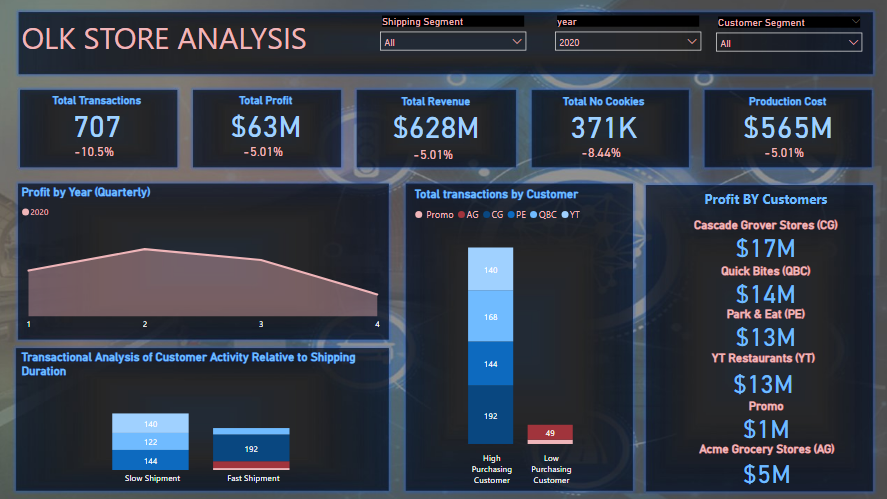
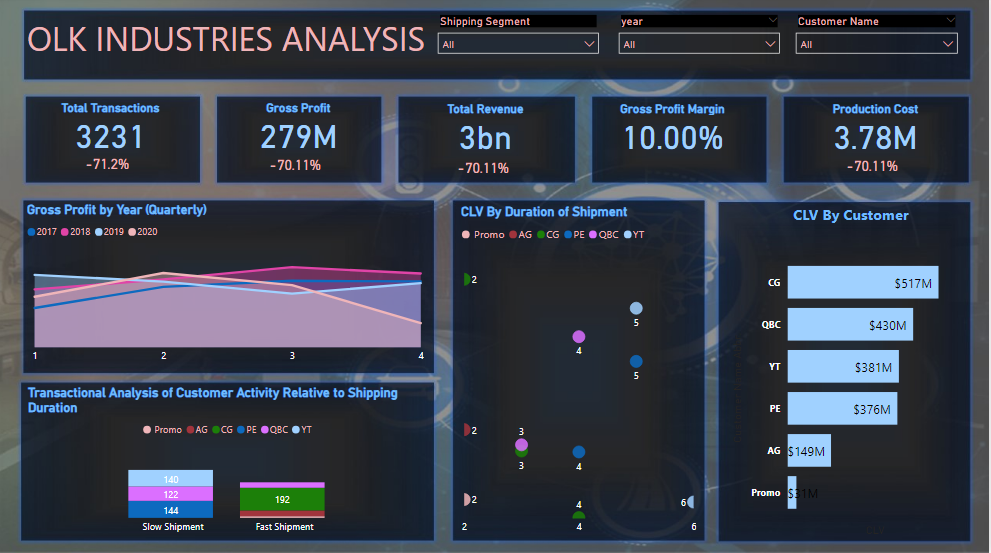
last commit

diff --git a/generic.html b/generic.html
@@ -40,45 +40,67 @@
 						<!-- Post -->
 							<section class="post">
 								<header class="major">
-									<h1>Descriptive Analysis on OLK STORE Using Power BI</h1>
+									<h1>Sales Analysis on OLK Cookies Industries LTD. </h1>
 									<p> Executive Summary: Descriptive Analysis on OLK STORE </p>
 								</header>
-								<div class="image main"><img src="images/olkdashboard.PNG" alt="" /></div>
-								<p>
+								<div class="image main"><img src="images/olkdashboard.PNG" alt="" />
+								</div>
+							<p>
 								<strong>
 									Introduction:
 								</strong>
-								OLK Store, a prominent wholesale supplier specializing in cookies, commissioned a comprehensive
+								OLK Cookies Industries LTD, a company that produces cookies for human consumption, commissioned a comprehensive
 								 analysis to elucidate critical aspects of its business operations. The focus of this analysis
-								  was to delineate key performance indicators (KPIs) that encompassed total transactions, total profit,
-								   total revenue, total units of cookies sold, and production costs. The project additionally delved into
+								  was to delineate key performance indicators (KPIs) that encompassed total transactions, Gross profit,
+								   total revenue, gross profit margin, and production costs. The project additionally delved into
 								    customer segmentation based on the quantity of cookies purchased, with a keen examination of the 
 									associated shipping durations.
 
 								Executed as part of an intern project, this analysis undertook meticulous data cleaning and modeling 
 								procedures employing advanced tools such as Power Query and Power BI. The utilization of these sophisticated
-								 analytical tools ensured a rigorous and insightful examination of OLK Store's operational dynamics, allowing 
+								 analytical tools ensured a rigorous and insightful examination of OLK Industries operational dynamics, allowing 
 								 for a nuanced understanding of various facets crucial to strategic decision-making and business optimization.
 								  The outcomes of this project contribute valuable insights for refining business strategies and enhancing 
-								  overall performance within the wholesale cookies supply domain.
+								  overall performance within the sales of cookies.
 								
 								
 								
 								
 								
 								
-							   <p>
+							</p>
+							
 								<strong>	
 									Data Preparation:
 								</strong>
 								
 								<img class="image column" src="images/dataset.png"  alt="" />
+								<img class="image column" src="images/olkdirtydata.PNG"  alt="" />
 								
 								
 									The raw data, spanning four years and organized into separate Excel sheets, was imported into Power Query using append 
 									and merge. 
 									The data underwent cleaning to address null values and unwanted figures. Afterward, it was loaded into Power BI
 									 for further analysis.
+									 
+									<p>
+									
+										<strong>
+											Key Findings:
+										</strong>
+											The dashboard revealed several primary key insights for overall year:
+										<div>
+											<img class="image column" src="images/olkkpi.PNG"  alt="" />
+										</div>
+										<ul>	
+											<li>Total transactions: 3231</li>	
+											<li>Total gross profit: $279 million</li>
+											<li>Total revenue: $3 billion</li>
+											<li>Gross profit margin 10.00%</li>
+											<li>Production cost: $3.78 million</li>	
+										</ul>
+									</p>
+									
 									 <p>
 										<strong>
 											Total Transactions By Customer:
@@ -188,23 +210,6 @@
 								
 								</p>
 								
-								<p>
-									
-									<strong>
-										Key Findings:
-									</strong>
-										The dashboard revealed several key insights for the current Year 2020:
-									<div>
-										<img class="image column" src="images/olkkpi.PNG"  alt="" />
-									</div>
-									<ul>	
-										<li>Total transactions: 707</li>	
-										<li>Total profit: $63 million</li>
-										<li>Total revenue: $628 million</li>
-										<li>Total number of cookies sold: 371,000</li>
-										<li>Production cost: $588 million</li>	
-									</ul>
-								</p>
 								
 								<p>
 									<strong>
@@ -260,8 +265,33 @@
 								 planning.
 								
 								</p>
+								<p>
+									<h4>
+										<strong>Customer Lifetime Value</strong>
+									</h4>
+									
+										<img class="image chart" src="images/olkclv.PNG" alt="" />
+												
+										Cascade Grocers (CG) emerges as the leading entity, boasting a figure of $517 million in 2020, followed closely
+										 by Quick Bite Convenience Store (QBC) with a respectable value of $430 million. This data underscores CG's
+										  prominence as the most valued customer based on Customer Lifetime Value (CLV) analysis, as depicted in the chart.
 								
 								</p>
+								<p>
+									<h4>
+										<strong>Customer Lifetime Value in respect to duration of shipment</strong>
+									</h4>
+									
+										<img class="image chart" src="images/olkclvtrans1.PNG" alt="" />
+												
+										<img class="image chart" src="images/olkclvtrans2.PNG" alt="" />
+										Based on the scatter plot analysis, it is evident that Cascade Grocers exhibits a higher Customer 
+										Lifetime Value (CLV) when shipment duration is lower, and conversely, a lower CLV when shipment duration 
+										is higher. This observation suggests a clear relationship between shipment duration and business performance.
+										 Specifically, it indicates that longer shipment durations may have a detrimental impact on the business's 
+										 overall profitability, while shorter durations correlate with higher CLV.
+								</p>
+							</p>
 								
 								
 								
@@ -300,20 +330,20 @@
 										Conclusion:
 									</strong>
 							 	</p>
-								 In conclusion, the descriptive analysis conducted on OLK Store using Power BI has provided
+								 In conclusion, the sales analysis conducted on OLK Industries LTD. using Power BI has provided
 								  valuable insights into various facets of the business, ranging from customer transactions 
-								  to profitability and production costs. The detailed examination of key performance indicators 
+								  to revenue and production costs. The detailed examination of key performance indicators 
 								  and trends over the years has offered a comprehensive understanding of the business dynamics.
 
 								 The findings emphasize the need for strategic adaptations in shipping processes and customer
 								  engagement strategies. Continuous monitoring and proactive decision-making are crucial for 
 								  navigating the evolving market landscape.
 								 
-								 By implementing the recommended strategies and maintaining a flexible approach, OLK Store
+								 By implementing the recommended strategies and maintaining a flexible approach, OLK Cookies Industries
 								  can position itself for sustained growth, improved customer relations, and optimized 
-								  operational efficiency within the wholesale cookies supply domain. This analysis serves 
+								  operational efficiency. This analysis serves 
 								  as a foundation for informed decision-making and strategic planning to drive the future 
-								  success of OLK Store.
+								  success of OLK Cookies Industries.
 								</p>	
 							</section>
 
